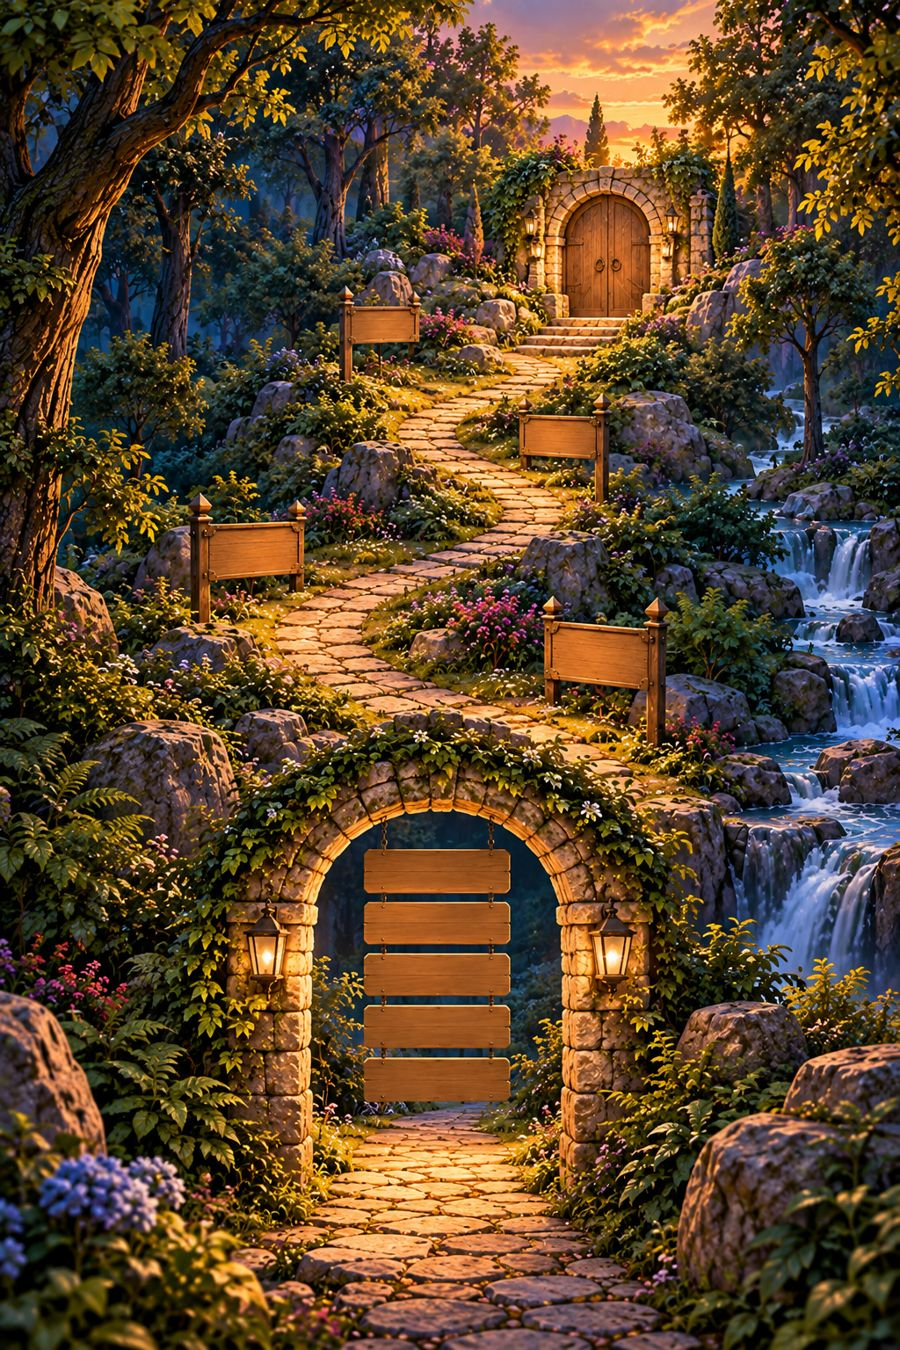
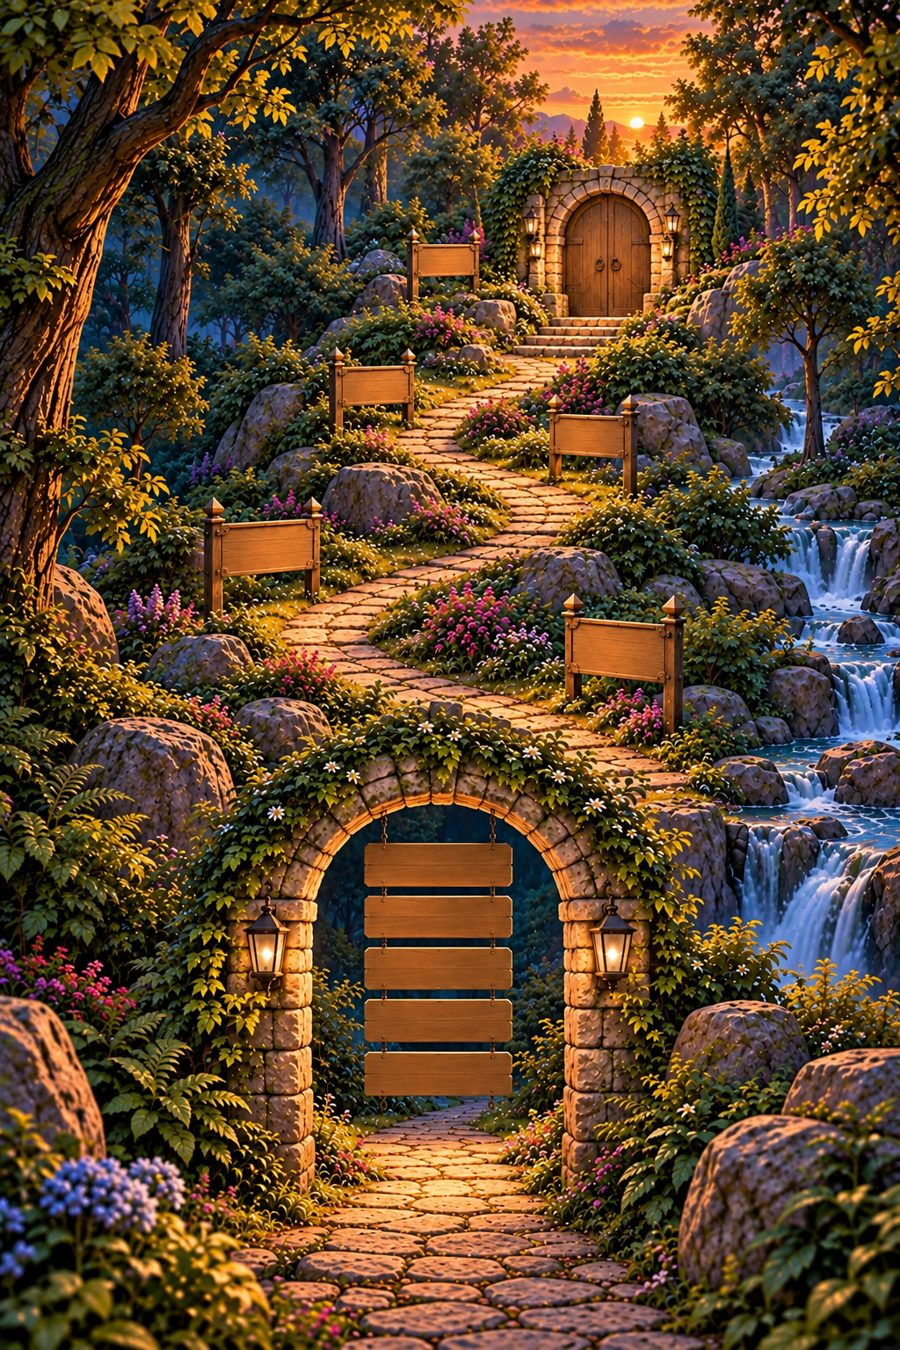
B : forêt B1.0 avec ton image corrigée (coucher de soleil, arche et panneaux)
Claude-Session: https://claude.ai/code/session_01AaqiEHsiXnwJJAxh4s9ami

diff --git a/js/screens/b1.js b/js/screens/b1.js
@@ -1,6 +1,6 @@
 // The Roots — B (B1.0 / B1.1) : accès aux ateliers de Grammaire en dialogue (G1, G2…).
 // Les ateliers sont des pages autonomes (b1-0/g1.html, b1-0/g2.html) ouvertes en plein écran.
-import "../data/roots-ai-url.js?v=20261031c";
+import "../data/roots-ai-url.js?v=20261031d";
 
 const esc = (s) => String(s).replace(/[&<>"']/g, (c) => ({ "&": "&amp;", "<": "&lt;", ">": "&gt;", '"': "&quot;", "'": "&#39;" }[c]));
 const BG = `<img class="screen-cover-bg bg-img-light" src="assets/img/shell-bg.jpg" alt="" aria-hidden="true"/><img class="screen-cover-bg bg-img-dark" src="assets/img/shell-bg-dark.jpg" alt="" aria-hidden="true"/><img class="screen-cover-bg bg-img-landscape" src="assets/img/shell-bg-landscape.jpg" alt="" aria-hidden="true"/><img class="screen-cover-bg bg-img-landscape-dark" src="assets/img/shell-bg-landscape-dark.jpg" alt="" aria-hidden="true"/>`;
@@ -15,8 +15,8 @@ export function b1Status() {
 }
 
 const WORKSHOPS = [
-  { k: "g1", n: "G1", t: "The Foundations of Real English", s: "Les fondamentaux pour parler un anglais naturel", url: "b1-0/g1.html?v=20261031c" },
-  { k: "g2", n: "G2", t: "Du choix de la forme à une communication précise", s: "Present Simple vs Present Continuous", url: "b1-0/g2.html?v=20261031c" },
+  { k: "g1", n: "G1", t: "The Foundations of Real English", s: "Les fondamentaux pour parler un anglais naturel", url: "b1-0/g1.html?v=20261031d" },
+  { k: "g2", n: "G2", t: "Du choix de la forme à une communication précise", s: "Present Simple vs Present Continuous", url: "b1-0/g2.html?v=20261031d" },
 ];
 
 export function renderB1(root, { onExit } = {}) {
@@ -58,7 +58,7 @@ export function renderB1(root, { onExit } = {}) {
   .b1x .b1g{animation:b1up .7s ease-out 1.1s both}.b1x.fin .b1g{animation-delay:.5s}
   @keyframes b1up{from{opacity:0;transform:translateY(30px)}to{opacity:1;transform:none}}
   .b1f{position:absolute;inset:0;background:url(assets/img/b/foret.jpg) center/cover}
-  .b1f::after{content:"";position:absolute;inset:0;background:linear-gradient(180deg,#0a0f2288 0,#0a0f2255 35%,#0a0f22cc 100%)}
+  .b1f::after{content:"";position:absolute;inset:0;background:linear-gradient(180deg,#0a0f2255 0,#0a0f2200 25%,#0a0f2200 45%,#0a0f22d9 100%)}
   .b1g{position:absolute;left:12px;right:12px;bottom:max(14px,env(safe-area-inset-bottom));z-index:3;border-radius:22px;padding:14px;background:rgba(18,26,58,.55);border:1px solid #ffffff33;backdrop-filter:blur(10px);-webkit-backdrop-filter:blur(10px);box-shadow:0 10px 30px #0008}
   .b1g h2{margin:0 0 2px;font-size:18px}.b1g p{margin:0 0 10px;font-size:12.5px;opacity:.85}
   .b1g .ws{display:flex;align-items:center;gap:12px;width:100%;text-align:left;border:1px solid #ffd36b66;border-radius:14px;padding:10px;margin-top:8px;background:rgba(10,14,36,.55);color:#fff;font:inherit;cursor:pointer}

diff --git a/js/screens/mes-cours.js b/js/screens/mes-cours.js
@@ -34,7 +34,7 @@ import { LEVELS, lessonsOf, lessonSheet, entryOf, BONUS_MAX } from "../data/livr
 import { bulletinA1, rattrapagesFaits, PASS, pickRattrapage, rtLoad, rtSave } from "../data/bulletin-a1.js?v=20261028c";
 import { renderAtelierEn } from "./atelier-en.js?v=20261008a";
 import { renderB0 } from "./b0.js?v=20261028c";
-import { renderB1, b1Status } from "./b1.js?v=20261031c";
+import { renderB1, b1Status } from "./b1.js?v=20261031d";
 import { b0Status } from "../data/b0-data.js?v=20261028c";
 
 // --- Petits blocs du livret (24/09) : jauges, contrôles, missions, renforts ---
